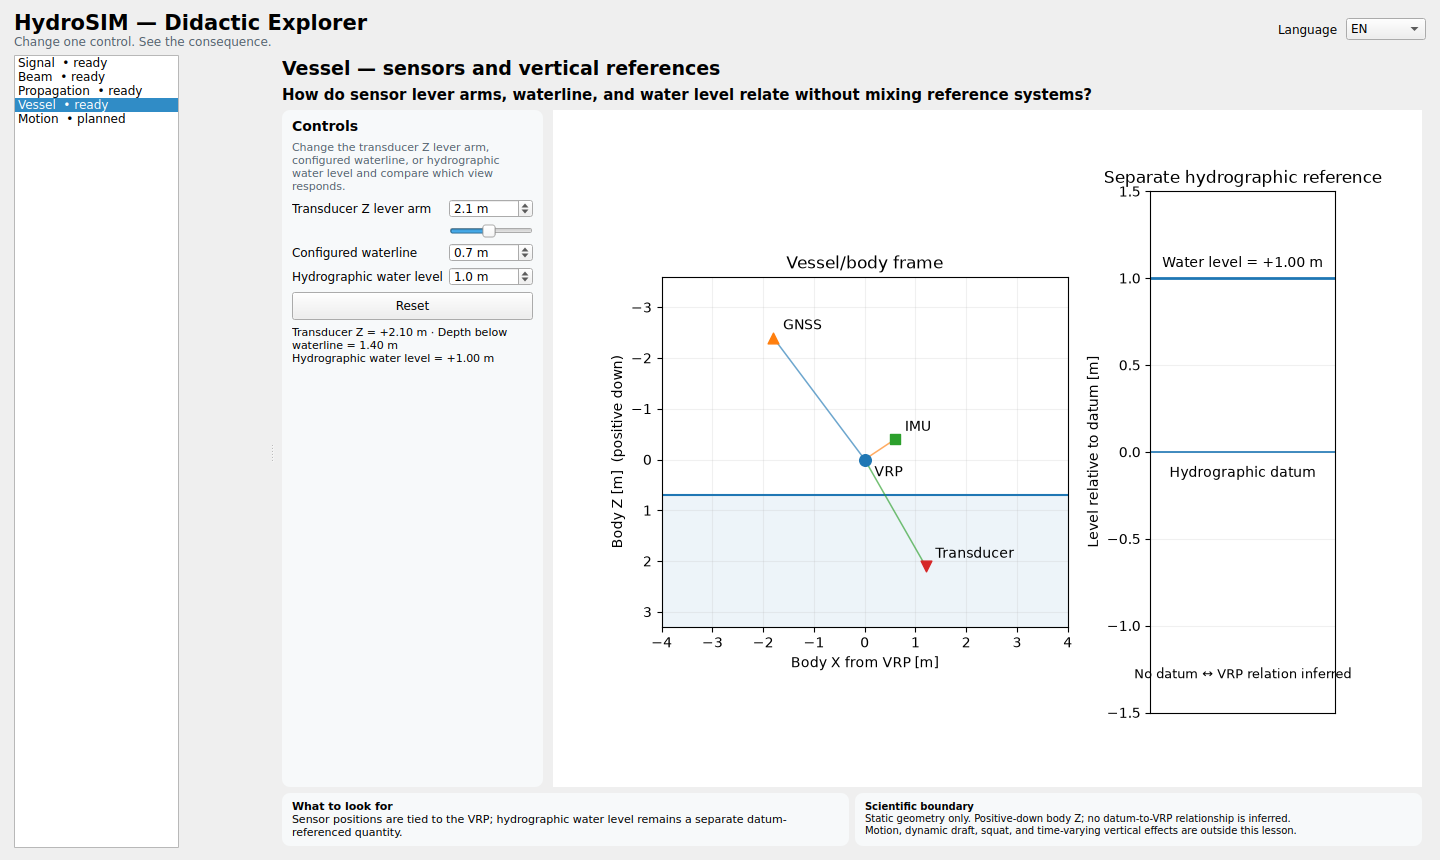
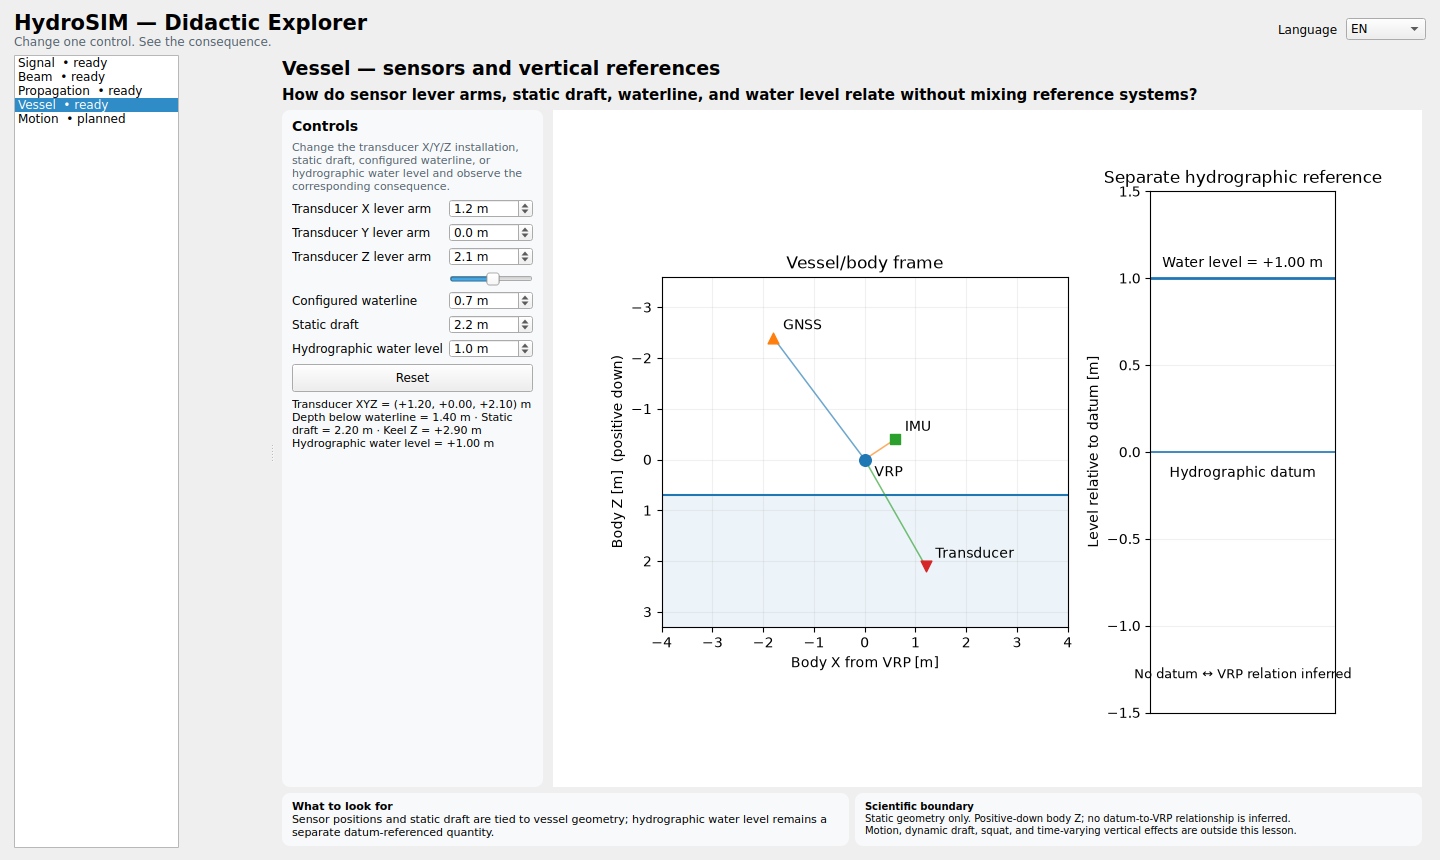
UX: complete Vessel D5 required interactions
* Complete Vessel lever-arm and static-draft interactions

* Localize complete Vessel interactions

* Test complete Vessel D5 interactions

* Update real Didactic Explorer screenshots [skip ci]

---------

Changed region(s): [[0.1875, 0.1512, 0.375, 0.5442], [0.3438, 0.0907, 0.8438, 0.1209], [0.2188, 0.9372, 0.5625, 0.9977]]

diff --git a/src/hydrosim/app/vessel_lesson.py b/src/hydrosim/app/vessel_lesson.py
@@ -67,8 +67,8 @@ def build_vessel_lesson(FigureCanvas: type[Any]) -> tuple[Any, dict[str, Any], C
     root.addLayout(body, 1)
 
     controls_frame = QFrame()
-    controls_frame.setMaximumWidth(270)
-    controls_frame.setMinimumWidth(235)
+    controls_frame.setMaximumWidth(300)
+    controls_frame.setMinimumWidth(260)
     controls_frame.setStyleSheet("QFrame { background: #f7f9fa; border-radius: 8px; }")
     controls_layout = QVBoxLayout(controls_frame)
     controls_layout.setContentsMargins(10, 8, 10, 8)
@@ -83,37 +83,52 @@ def build_vessel_lesson(FigureCanvas: type[Any]) -> tuple[Any, dict[str, Any], C
     instruction.setStyleSheet("color: #53616d; font-size: 11px;")
     controls_layout.addWidget(instruction)
 
+    def distance_spinbox(value: float, minimum: float, maximum: float) -> QDoubleSpinBox:
+        control = QDoubleSpinBox()
+        control.setRange(minimum, maximum)
+        control.setSingleStep(0.1)
+        control.setDecimals(1)
+        control.setSuffix(" m")
+        control.setValue(value)
+        return control
+
     form = QFormLayout()
     form.setVerticalSpacing(5)
-    transducer_label = QLabel()
-    transducer_z = QDoubleSpinBox()
-    transducer_z.setRange(0.5, 4.0)
-    transducer_z.setSingleStep(0.1)
-    transducer_z.setDecimals(1)
-    transducer_z.setSuffix(" m")
-    transducer_z.setValue(float(_DEFAULT_CONFIGURATION.lever_arm_vrp_to_transducer.z))
-    form.addRow(transducer_label, transducer_z)
+
+    transducer_x_label = QLabel()
+    transducer_x = distance_spinbox(
+        float(_DEFAULT_CONFIGURATION.lever_arm_vrp_to_transducer.x), -5.0, 5.0
+    )
+    form.addRow(transducer_x_label, transducer_x)
+
+    transducer_y_label = QLabel()
+    transducer_y = distance_spinbox(
+        float(_DEFAULT_CONFIGURATION.lever_arm_vrp_to_transducer.y), -5.0, 5.0
+    )
+    form.addRow(transducer_y_label, transducer_y)
+
+    transducer_z_label = QLabel()
+    transducer_z = distance_spinbox(
+        float(_DEFAULT_CONFIGURATION.lever_arm_vrp_to_transducer.z), -1.0, 5.0
+    )
+    form.addRow(transducer_z_label, transducer_z)
     transducer_slider = QSlider(Qt.Orientation.Horizontal)
-    transducer_slider.setRange(5, 40)
+    transducer_slider.setRange(-10, 50)
     transducer_slider.setValue(round(transducer_z.value() * 10.0))
     form.addRow("", transducer_slider)
 
     waterline_label = QLabel()
-    waterline_z = QDoubleSpinBox()
-    waterline_z.setRange(-0.5, 2.0)
-    waterline_z.setSingleStep(0.1)
-    waterline_z.setDecimals(1)
-    waterline_z.setSuffix(" m")
-    waterline_z.setValue(float(_DEFAULT_CONFIGURATION.waterline_z_from_vrp_m))
+    waterline_z = distance_spinbox(float(_DEFAULT_CONFIGURATION.waterline_z_from_vrp_m), -0.5, 2.0)
     form.addRow(waterline_label, waterline_z)
 
+    static_draft_label = QLabel()
+    static_draft = distance_spinbox(float(_DEFAULT_CONFIGURATION.static_draft_m), 0.0, 8.0)
+    form.addRow(static_draft_label, static_draft)
+
     water_level_label = QLabel()
-    water_level = QDoubleSpinBox()
-    water_level.setRange(-2.0, 3.0)
-    water_level.setSingleStep(0.1)
-    water_level.setDecimals(1)
-    water_level.setSuffix(" m")
-    water_level.setValue(float(_DEFAULT_CONFIGURATION.water_level_m_relative_to_datum))
+    water_level = distance_spinbox(
+        float(_DEFAULT_CONFIGURATION.water_level_m_relative_to_datum), -2.0, 3.0
+    )
     form.addRow(water_level_label, water_level)
     controls_layout.addLayout(form)
 
@@ -157,42 +172,66 @@ def build_vessel_lesson(FigureCanvas: type[Any]) -> tuple[Any, dict[str, Any], C
             lever_arm_vrp_to_gnss=_DEFAULT_CONFIGURATION.lever_arm_vrp_to_gnss,
             lever_arm_vrp_to_imu=_DEFAULT_CONFIGURATION.lever_arm_vrp_to_imu,
             lever_arm_vrp_to_transducer=Vector3(
-                x=_DEFAULT_CONFIGURATION.lever_arm_vrp_to_transducer.x,
-                y=_DEFAULT_CONFIGURATION.lever_arm_vrp_to_transducer.y,
+                x=transducer_x.value(),
+                y=transducer_y.value(),
                 z=transducer_z.value(),
             ),
             waterline_z_from_vrp_m=waterline_z.value(),
-            static_draft_m=_DEFAULT_CONFIGURATION.static_draft_m,
+            static_draft_m=static_draft.value(),
             water_level_m_relative_to_datum=water_level.value(),
         )
 
     def redraw() -> None:
         snapshot = prepare_vessel_vertical_reference_snapshot(_DEFAULT_POSE, current_configuration())
         draw_vessel_vertical_reference_snapshot(snapshot, axes)
+        position = snapshot.transducer_position
         readout.setText(
-            f"Transducer Z = {snapshot.transducer_z_from_vrp_m:+.2f} m · "
-            f"Depth below waterline = {snapshot.transducer_depth_below_waterline_m:.2f} m<br>"
+            f"Transducer XYZ = ({position.x:+.2f}, {position.y:+.2f}, {position.z:+.2f}) m<br>"
+            f"Depth below waterline = {snapshot.transducer_depth_below_waterline_m:.2f} m · "
+            f"Static draft = {snapshot.static_draft_m:.2f} m · "
+            f"Keel Z = {snapshot.keel_z_from_vrp_m:+.2f} m<br>"
             f"Hydrographic water level = {snapshot.water_level_m_relative_to_datum:+.2f} m"
         )
         canvas.draw_idle()
 
-    transducer_z.valueChanged.connect(
-        lambda value: transducer_slider.setValue(round(value * 10.0))
-        if transducer_slider.value() != round(value * 10.0)
-        else redraw()
-    )
-    transducer_slider.valueChanged.connect(
-        lambda value: transducer_z.setValue(value / 10.0)
-        if transducer_z.value() != value / 10.0
-        else None
-    )
+    def sync_transducer_z_spinbox(value: float) -> None:
+        target = round(value * 10.0)
+        if transducer_slider.value() != target:
+            transducer_slider.blockSignals(True)
+            transducer_slider.setValue(target)
+            transducer_slider.blockSignals(False)
+        redraw()
+
+    def sync_transducer_z_slider(value: int) -> None:
+        target = value / 10.0
+        if transducer_z.value() != target:
+            transducer_z.blockSignals(True)
+            transducer_z.setValue(target)
+            transducer_z.blockSignals(False)
+        redraw()
+
+    transducer_x.valueChanged.connect(lambda _value: redraw())
+    transducer_y.valueChanged.connect(lambda _value: redraw())
+    transducer_z.valueChanged.connect(sync_transducer_z_spinbox)
+    transducer_slider.valueChanged.connect(sync_transducer_z_slider)
     waterline_z.valueChanged.connect(lambda _value: redraw())
+    static_draft.valueChanged.connect(lambda _value: redraw())
     water_level.valueChanged.connect(lambda _value: redraw())
 
     def reset_lesson() -> None:
-        transducer_z.setValue(float(_DEFAULT_CONFIGURATION.lever_arm_vrp_to_transducer.z))
-        waterline_z.setValue(float(_DEFAULT_CONFIGURATION.waterline_z_from_vrp_m))
-        water_level.setValue(float(_DEFAULT_CONFIGURATION.water_level_m_relative_to_datum))
+        controls_to_reset = (
+            (transducer_x, float(_DEFAULT_CONFIGURATION.lever_arm_vrp_to_transducer.x)),
+            (transducer_y, float(_DEFAULT_CONFIGURATION.lever_arm_vrp_to_transducer.y)),
+            (transducer_z, float(_DEFAULT_CONFIGURATION.lever_arm_vrp_to_transducer.z)),
+            (waterline_z, float(_DEFAULT_CONFIGURATION.waterline_z_from_vrp_m)),
+            (static_draft, float(_DEFAULT_CONFIGURATION.static_draft_m)),
+            (water_level, float(_DEFAULT_CONFIGURATION.water_level_m_relative_to_datum)),
+        )
+        for control, value in controls_to_reset:
+            control.blockSignals(True)
+            control.setValue(value)
+            control.blockSignals(False)
+        transducer_slider.setValue(round(transducer_z.value() * 10.0))
         redraw()
 
     reset.clicked.connect(reset_lesson)
@@ -203,8 +242,11 @@ def build_vessel_lesson(FigureCanvas: type[Any]) -> tuple[Any, dict[str, Any], C
         question.setText(localizer.text("vessel.question"))
         controls_title.setText(localizer.text("common.try_it"))
         instruction.setText(localizer.text("vessel.instruction"))
-        transducer_label.setText(localizer.text("vessel.transducer_z"))
+        transducer_x_label.setText(localizer.text("vessel.transducer_x"))
+        transducer_y_label.setText(localizer.text("vessel.transducer_y"))
+        transducer_z_label.setText(localizer.text("vessel.transducer_z"))
         waterline_label.setText(localizer.text("vessel.waterline"))
+        static_draft_label.setText(localizer.text("vessel.static_draft"))
         water_level_label.setText(localizer.text("vessel.water_level"))
         reset.setText(localizer.text("common.reset"))
         observation.setText(
@@ -219,9 +261,12 @@ def build_vessel_lesson(FigureCanvas: type[Any]) -> tuple[Any, dict[str, Any], C
     redraw()
     apply_language("en")
     controls = {
+        "transducer_x": transducer_x,
+        "transducer_y": transducer_y,
         "transducer_z": transducer_z,
         "transducer_slider": transducer_slider,
         "waterline_z": waterline_z,
+        "static_draft": static_draft,
         "water_level": water_level,
         "reset": reset,
         "readout": readout,

diff --git a/src/hydrosim/app/localization.py b/src/hydrosim/app/localization.py
@@ -69,9 +69,12 @@ _TRANSLATIONS: dict[str, dict[str, str]] = {
             "lower-layer sound speed used during processing is wrong?"
         ),
         "vessel.title": "Vessel — sensors and vertical references",
-        "vessel.question": "How do sensor lever arms, waterline, and water level relate without mixing reference systems?",
-        "vessel.instruction": "Change the transducer Z lever arm, configured waterline, or hydrographic water level and compare which view responds.",
+        "vessel.question": "How do sensor lever arms, static draft, waterline, and water level relate without mixing reference systems?",
+        "vessel.instruction": "Change the transducer X/Y/Z installation, static draft, configured waterline, or hydrographic water level and observe the corresponding consequence.",
+        "vessel.transducer_x": "Transducer X lever arm",
+        "vessel.transducer_y": "Transducer Y lever arm",
         "vessel.transducer_z": "Transducer Z lever arm",
+        "vessel.static_draft": "Static draft",
         "vessel.vrp": "Vessel reference point (VRP)",
         "vessel.gnss": "GNSS antenna",
         "vessel.imu": "IMU",
@@ -79,7 +82,7 @@ _TRANSLATIONS: dict[str, dict[str, str]] = {
         "vessel.waterline": "Configured waterline",
         "vessel.water_level": "Hydrographic water level",
         "vessel.transducer_depth": "Transducer below waterline",
-        "vessel.observation": "Sensor positions are tied to the VRP; hydrographic water level remains a separate datum-referenced quantity.",
+        "vessel.observation": "Sensor positions and static draft are tied to vessel geometry; hydrographic water level remains a separate datum-referenced quantity.",
         "vessel.boundary": "Static geometry only. Positive-down body Z; no datum-to-VRP relationship is inferred.",
         "vessel.not_shown": "Motion, dynamic draft, squat, and time-varying vertical effects are outside this lesson.",
     },
@@ -140,9 +143,12 @@ _TRANSLATIONS: dict[str, dict[str, str]] = {
             "a velocidade do som da camada inferior usada no processamento está errada?"
         ),
         "vessel.title": "Embarcação — sensores e referências verticais",
-        "vessel.question": "Como os lever arms dos sensores, a linha d'água e o nível d'água se relacionam sem misturar sistemas de referência?",
-        "vessel.instruction": "Altere o lever arm Z do transdutor, a linha d'água configurada ou o nível d'água hidrográfico e compare qual representação responde.",
+        "vessel.question": "Como os lever arms dos sensores, o calado estático, a linha d'água e o nível d'água se relacionam sem misturar sistemas de referência?",
+        "vessel.instruction": "Altere a instalação X/Y/Z do transdutor, o calado estático, a linha d'água configurada ou o nível d'água hidrográfico e observe a consequência correspondente.",
+        "vessel.transducer_x": "Lever arm X do transdutor",
+        "vessel.transducer_y": "Lever arm Y do transdutor",
         "vessel.transducer_z": "Lever arm Z do transdutor",
+        "vessel.static_draft": "Calado estático",
         "vessel.vrp": "Ponto de referência da embarcação (VRP)",
         "vessel.gnss": "Antena GNSS",
         "vessel.imu": "IMU",
@@ -150,7 +156,7 @@ _TRANSLATIONS: dict[str, dict[str, str]] = {
         "vessel.waterline": "Linha d'água configurada",
         "vessel.water_level": "Nível d'água hidrográfico",
         "vessel.transducer_depth": "Transdutor abaixo da linha d'água",
-        "vessel.observation": "As posições dos sensores são vinculadas ao VRP; o nível d'água hidrográfico permanece uma grandeza separada, referida ao datum.",
+        "vessel.observation": "As posições dos sensores e o calado estático pertencem à geometria da embarcação; o nível d'água hidrográfico permanece uma grandeza separada, referida ao datum.",
         "vessel.boundary": "Apenas geometria estática. Z do corpo positivo para baixo; nenhuma relação datum–VRP é inferida.",
         "vessel.not_shown": "Movimento, calado dinâmico, squat e efeitos verticais variáveis no tempo estão fora desta aula.",
     },

diff --git a/tests/test_vessel_d5_completion.py b/tests/test_vessel_d5_completion.py
@@ -1,0 +1,48 @@
+from pathlib import Path
+
+from hydrosim.app.localization import Localizer
+
+
+def _source() -> str:
+    return Path("src/hydrosim/app/vessel_lesson.py").read_text(encoding="utf-8")
+
+
+def test_vessel_exposes_full_transducer_installation_and_static_draft() -> None:
+    source = _source()
+
+    for control in ("transducer_x", "transducer_y", "transducer_z", "static_draft"):
+        assert f'"{control}"' in source
+    assert "x=transducer_x.value()" in source
+    assert "y=transducer_y.value()" in source
+    assert "z=transducer_z.value()" in source
+    assert "static_draft_m=static_draft.value()" in source
+
+
+def test_vessel_readout_exposes_required_observable_consequences() -> None:
+    source = _source()
+
+    assert "Transducer XYZ" in source
+    assert "snapshot.transducer_depth_below_waterline_m" in source
+    assert "snapshot.static_draft_m" in source
+    assert "snapshot.keel_z_from_vrp_m" in source
+    assert "snapshot.water_level_m_relative_to_datum" in source
+
+
+def test_vessel_required_new_labels_are_bilingual() -> None:
+    for locale in ("en", "pt-BR"):
+        localizer = Localizer(locale)
+        for key in (
+            "vessel.transducer_x",
+            "vessel.transducer_y",
+            "vessel.transducer_z",
+            "vessel.static_draft",
+        ):
+            assert localizer.text(key)
+
+
+def test_vessel_scope_keeps_dynamic_effects_out() -> None:
+    source = _source().lower()
+    controls = source.split("controls = {", 1)[1].split("return page", 1)[0]
+
+    for excluded in ("roll", "pitch", "yaw", "heave", "squat"):
+        assert f'"{excluded}"' not in controls
